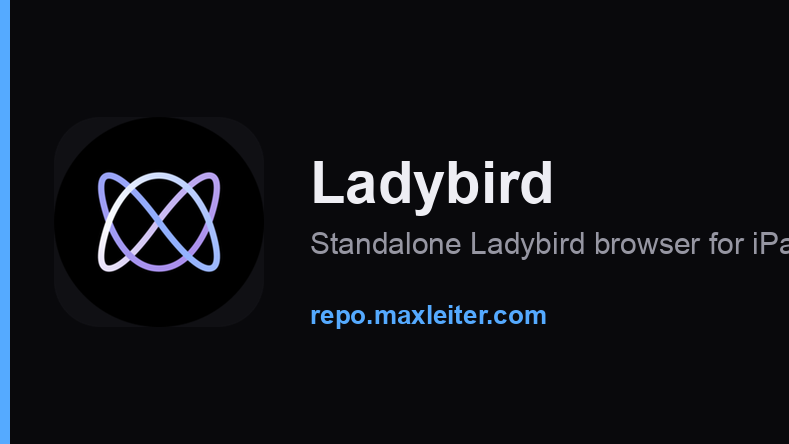
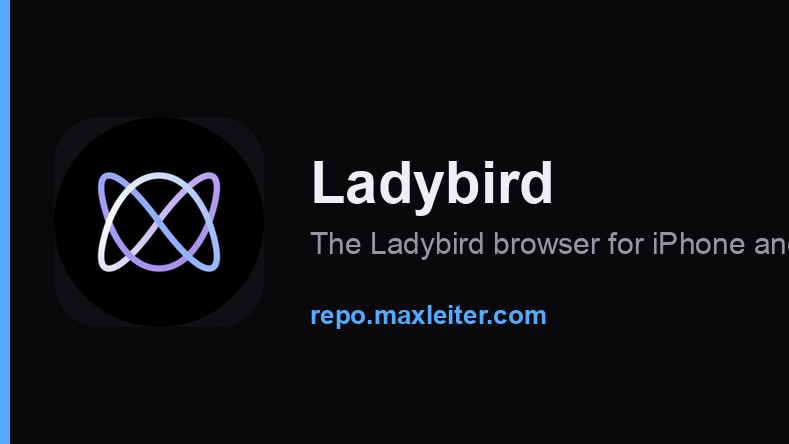
repo: describe Ladybird the way someone browsing the repo would read it
The Ladybird listing was written from the inside out: LibWeb/LibJS, bundled
helper processes, the dylib closure, IOSurface front buffers presented through
Metal, ANGLE/Metal WebGL context creation. None of that answers the only
question a person reading a store page has, which is what this is and whether
it runs on their phone. It now says: the Ladybird browser (linked), ported to
jailbroken iPhones and iPads, installs as a home-screen app, works on root and
rootless. The rootless-only / "rootful is not supported" line was stale and is
gone.

ladybird-wayland gets the same treatment plus a meta file of its own, so its
text is not the deb's build-speak and it says what distinguishes it from
ladybird-app in one line instead of naming iosc, GTK, libadwaita, freedesktop
and UIKit.

make-repo.py renders markdown links and backtick code spans now. Both were
already being written into meta descriptions and Sileo handled them, but the
web depiction printed [Ladybird](https://ladybird.org) and stray backticks
literally, which is why the descriptions avoided links until now. Fixes the
same thing on ~18 other pages that had backticks.

Em-dashes removed from every authored description: three meta files, the
ladybird-app control, and six other controls. libmozjs-115-0 also claimed
interpreter-only was forced because "iOS does not permit runtime-writable
executable memory", which the shipped libmozjs-115-jit-0 disproves; it now
[…]

Changed region(s): [[0.3954, 0.527, 1.0, 0.5856]]

diff --git a/repo/depictions/ladybird-app.html b/repo/depictions/ladybird-app.html
@@ -16,17 +16,11 @@
 <body><div class="wrap">
   <a class="back" href="../index.html"><svg viewBox="0 0 16 16" fill="none" aria-hidden="true"><path d="M10 12L6 8l4-4" stroke="currentColor" stroke-width="1.6" stroke-linecap="round" stroke-linejoin="round"/></svg><span>Max&#x27;s Repo</span></a>
   <header class="masthead"><img src="../icons/ladybird-app.png" alt="">
-    <div><h1>Ladybird</h1><p class="sub">Standalone Ladybird browser for iPad and iPhone</p></div><div class="theme-picker" role="group" aria-label="Theme"><button type="button" data-theme="system" aria-label="Follow system theme" aria-pressed="true"><svg viewBox="0 0 24 24" fill="none" stroke="currentColor" stroke-width="2" stroke-linecap="round" stroke-linejoin="round" aria-hidden="true"><rect x="3" y="5" width="18" height="12" rx="1"/><path d="M8 21h8M12 17v4"/></svg></button><button type="button" data-theme="light" aria-label="Light theme" aria-pressed="false"><svg viewBox="0 0 24 24" fill="none" stroke="currentColor" stroke-width="2" stroke-linecap="round" stroke-linejoin="round" aria-hidden="true"><circle cx="12" cy="12" r="4"/><path d="M12 2v2M12 20v2M4.9 4.9l1.4 1.4M17.7 17.7l1.4 1.4M2 12h2M20 12h2M6.3 17.7l-1.4 1.4M19.1 4.9l-1.4 1.4"/></svg></button><button type="button" data-theme="dark" aria-label="Dark theme" aria-pressed="false"><svg viewBox="0 0 24 24" fill="none" stroke="currentColor" stroke-width="2" stroke-linecap="round" stroke-linejoin="round" aria-hidden="true"><path d="M21 12.8A9 9 0 1 1 11.2 3a7 7 0 0 0 9.8 9.8z"/></svg></button></div></header>
-  <div class="prose"><p><strong>Ladybird</strong> is a standalone browser app for jailbroken iOS, built from Ladybird&#x27;s LibWeb and LibJS engine rather than WebKit.</p>
-<p>Tap the home-screen icon and it launches directly as a UIKit app. It bundles the browser executable, helper processes, resources, fonts, and dylib closure inside `Ladybird.app`, so it does not need an Xios desktop session.</p>
-<ul>
-<li>Multiprocess Ladybird engine with bundled helpers</li>
-<li>Address bar, back/forward/reload, page taps, software keyboard input, and focused text fields</li>
-<li>IOSurface-backed front-buffer presentation through Metal</li>
-<li>ANGLE/Metal WebGL context creation verified on-device</li>
-</ul>
-<p><strong>Requires iOS/iPadOS 16.0+ on a rootless jailbreak</strong> (`/var/jb`). Rootful is not supported.</p>
-<p><strong>iPad is the tested configuration.</strong> As of 0.1.23 the app also installs on iPhone, but no iPhone has been tested: expect a cramped toolbar, and note that the software keyboard can cover the lower half of a page because the view does not yet inset for it. Bug reports from iPhone are welcome.</p></div>
+    <div><h1>Ladybird</h1><p class="sub">The Ladybird browser for iPhone and iPad</p></div><div class="theme-picker" role="group" aria-label="Theme"><button type="button" data-theme="system" aria-label="Follow system theme" aria-pressed="true"><svg viewBox="0 0 24 24" fill="none" stroke="currentColor" stroke-width="2" stroke-linecap="round" stroke-linejoin="round" aria-hidden="true"><rect x="3" y="5" width="18" height="12" rx="1"/><path d="M8 21h8M12 17v4"/></svg></button><button type="button" data-theme="light" aria-label="Light theme" aria-pressed="false"><svg viewBox="0 0 24 24" fill="none" stroke="currentColor" stroke-width="2" stroke-linecap="round" stroke-linejoin="round" aria-hidden="true"><circle cx="12" cy="12" r="4"/><path d="M12 2v2M12 20v2M4.9 4.9l1.4 1.4M17.7 17.7l1.4 1.4M2 12h2M20 12h2M6.3 17.7l-1.4 1.4M19.1 4.9l-1.4 1.4"/></svg></button><button type="button" data-theme="dark" aria-label="Dark theme" aria-pressed="false"><svg viewBox="0 0 24 24" fill="none" stroke="currentColor" stroke-width="2" stroke-linecap="round" stroke-linejoin="round" aria-hidden="true"><path d="M21 12.8A9 9 0 1 1 11.2 3a7 7 0 0 0 9.8 9.8z"/></svg></button></div></header>
+  <div class="prose"><p><a href="https://ladybird.org" rel="noopener">Ladybird</a> is a new web browser with its own engine, written from scratch rather than built on WebKit or Chromium. This is Ladybird ported to jailbroken iPhones and iPads.</p>
+<p>It installs as a normal home-screen app. Tap the icon and the browser opens.</p>
+<p>Works on both root and rootless jailbreaks, iOS 16 or later.</p>
+<p>iPad is the tested setup. The app installs and runs on iPhone too, but I have not tested it there: the toolbar is tight, and the keyboard can cover the bottom of the page. Bug reports from iPhone are welcome.</p></div>
   <h2 class="section">Information</h2><table class="info"><tr><td>Version</td><td>0.1.24+ios1</td></tr><tr><td>Size</td><td>68264.2 KiB</td></tr><tr><td>Developer</td><td>Ladybird Browser Initiative / Max</td></tr><tr><td>Section</td><td>Apps</td></tr><tr><td>Identifier</td><td>ladybird-app</td></tr></table>
   <footer><a href="../index.html">&larr; All packages</a></footer>
 </div>

diff --git a/repo/depictions/ladybird-wayland.html b/repo/depictions/ladybird-wayland.html
@@ -16,9 +16,11 @@
 <body><div class="wrap">
   <a class="back" href="../index.html"><svg viewBox="0 0 16 16" fill="none" aria-hidden="true"><path d="M10 12L6 8l4-4" stroke="currentColor" stroke-width="1.6" stroke-linecap="round" stroke-linejoin="round"/></svg><span>Max&#x27;s Repo</span></a>
   <header class="masthead"><img src="../icons/ladybird-wayland.png" alt="">
-    <div><h1>Ladybird (Wayland)</h1><p class="sub">Ladybird web browser for Xios Wayland sessions</p></div><div class="theme-picker" role="group" aria-label="Theme"><button type="button" data-theme="system" aria-label="Follow system theme" aria-pressed="true"><svg viewBox="0 0 24 24" fill="none" stroke="currentColor" stroke-width="2" stroke-linecap="round" stroke-linejoin="round" aria-hidden="true"><rect x="3" y="5" width="18" height="12" rx="1"/><path d="M8 21h8M12 17v4"/></svg></button><button type="button" data-theme="light" aria-label="Light theme" aria-pressed="false"><svg viewBox="0 0 24 24" fill="none" stroke="currentColor" stroke-width="2" stroke-linecap="round" stroke-linejoin="round" aria-hidden="true"><circle cx="12" cy="12" r="4"/><path d="M12 2v2M12 20v2M4.9 4.9l1.4 1.4M17.7 17.7l1.4 1.4M2 12h2M20 12h2M6.3 17.7l-1.4 1.4M19.1 4.9l-1.4 1.4"/></svg></button><button type="button" data-theme="dark" aria-label="Dark theme" aria-pressed="false"><svg viewBox="0 0 24 24" fill="none" stroke="currentColor" stroke-width="2" stroke-linecap="round" stroke-linejoin="round" aria-hidden="true"><path d="M21 12.8A9 9 0 1 1 11.2 3a7 7 0 0 0 9.8 9.8z"/></svg></button></div></header>
-  <div class="prose"><p>Ladybird web browser for Xios Wayland sessions</p></div>
-  <h2 class="section">Information</h2><table class="info"><tr><td>Version</td><td>0.1.0+wl2</td></tr><tr><td>Size</td><td>29458.8 KiB</td></tr><tr><td>Developer</td><td>Max Leiter &lt;maxwell.leiter@gmail.com&gt;</td></tr><tr><td>Section</td><td>Apps</td></tr><tr><td>Identifier</td><td>ladybird-wayland</td></tr></table>
+    <div><h1>Ladybird (Wayland)</h1><p class="sub">The Ladybird browser for Xios desktop sessions</p></div><div class="theme-picker" role="group" aria-label="Theme"><button type="button" data-theme="system" aria-label="Follow system theme" aria-pressed="true"><svg viewBox="0 0 24 24" fill="none" stroke="currentColor" stroke-width="2" stroke-linecap="round" stroke-linejoin="round" aria-hidden="true"><rect x="3" y="5" width="18" height="12" rx="1"/><path d="M8 21h8M12 17v4"/></svg></button><button type="button" data-theme="light" aria-label="Light theme" aria-pressed="false"><svg viewBox="0 0 24 24" fill="none" stroke="currentColor" stroke-width="2" stroke-linecap="round" stroke-linejoin="round" aria-hidden="true"><circle cx="12" cy="12" r="4"/><path d="M12 2v2M12 20v2M4.9 4.9l1.4 1.4M17.7 17.7l1.4 1.4M2 12h2M20 12h2M6.3 17.7l-1.4 1.4M19.1 4.9l-1.4 1.4"/></svg></button><button type="button" data-theme="dark" aria-label="Dark theme" aria-pressed="false"><svg viewBox="0 0 24 24" fill="none" stroke="currentColor" stroke-width="2" stroke-linecap="round" stroke-linejoin="round" aria-hidden="true"><path d="M21 12.8A9 9 0 1 1 11.2 3a7 7 0 0 0 9.8 9.8z"/></svg></button></div></header>
+  <div class="prose"><p><a href="https://ladybird.org" rel="noopener">Ladybird</a> is a new web browser with its own engine, written from scratch rather than built on WebKit or Chromium. This is the desktop build, which runs as a window inside a Xios desktop session.</p>
+<p>It adds a normal application entry and opens through whichever desktop you are running.</p>
+<p>If you want a home-screen browser icon instead, install <strong>Ladybird</strong> (<code>ladybird-app</code>).</p></div>
+  <h2 class="section">Information</h2><table class="info"><tr><td>Version</td><td>0.1.0+wl2</td></tr><tr><td>Size</td><td>29458.8 KiB</td></tr><tr><td>Developer</td><td>Ladybird Browser Initiative / Max</td></tr><tr><td>Section</td><td>Apps</td></tr><tr><td>Identifier</td><td>ladybird-wayland</td></tr></table>
   <footer><a href="../index.html">&larr; All packages</a></footer>
 </div>
 <script>

diff --git a/repo/depictions/xios-server.html b/repo/depictions/xios-server.html
@@ -18,11 +18,11 @@
   <header class="masthead"><img src="../icons/xios-server.png" alt="">
     <div><h1>Xios (IOSurface X server)</h1><p class="sub">The fast native X11 server for the Xios app</p></div><div class="theme-picker" role="group" aria-label="Theme"><button type="button" data-theme="system" aria-label="Follow system theme" aria-pressed="true"><svg viewBox="0 0 24 24" fill="none" stroke="currentColor" stroke-width="2" stroke-linecap="round" stroke-linejoin="round" aria-hidden="true"><rect x="3" y="5" width="18" height="12" rx="1"/><path d="M8 21h8M12 17v4"/></svg></button><button type="button" data-theme="light" aria-label="Light theme" aria-pressed="false"><svg viewBox="0 0 24 24" fill="none" stroke="currentColor" stroke-width="2" stroke-linecap="round" stroke-linejoin="round" aria-hidden="true"><circle cx="12" cy="12" r="4"/><path d="M12 2v2M12 20v2M4.9 4.9l1.4 1.4M17.7 17.7l1.4 1.4M2 12h2M20 12h2M6.3 17.7l-1.4 1.4M19.1 4.9l-1.4 1.4"/></svg></button><button type="button" data-theme="dark" aria-label="Dark theme" aria-pressed="false"><svg viewBox="0 0 24 24" fill="none" stroke="currentColor" stroke-width="2" stroke-linecap="round" stroke-linejoin="round" aria-hidden="true"><path d="M21 12.8A9 9 0 1 1 11.2 3a7 7 0 0 0 9.8 9.8z"/></svg></button></div></header>
   <div class="prose"><p><strong>Xios</strong> is the X11 server behind the Xios iOS app, built for the fastest display path. It&#x27;s xorg-server 1.20.11 (the same source as Xvfb) with a custom backend that draws straight into a GPU-shared image the app shows on screen, with no per-frame copying.</p>
-<p>Xios writes a small config file at `/var/jb/tmp/xios.json` so the app picks this fast path automatically, and touch and keyboard input are passed back into X11. If you need the simpler, more portable version instead, install <strong>x11-xvfb</strong> and use `x11-server.sh`.</p>
+<p>Xios writes a small config file at <code>/var/jb/tmp/xios.json</code> so the app picks this fast path automatically, and touch and keyboard input are passed back into X11. If you need the simpler, more portable version instead, install <strong>x11-xvfb</strong> and use <code>x11-server.sh</code>.</p>
 <ul>
 <li>Starts cleanly and sets up the keyboard correctly</li>
-<li>Includes the `xios-server.sh` launcher at `/var/jb/usr/bin/xios-server.sh`</li>
-<li>Pair with a window manager (`fluxbox`), `xterm`, and the `x11-fonts-sf` package</li>
+<li>Includes the <code>xios-server.sh</code> launcher at <code>/var/jb/usr/bin/xios-server.sh</code></li>
+<li>Pair with a window manager (<code>fluxbox</code>), <code>xterm</code>, and the <code>x11-fonts-sf</code> package</li>
 </ul></div>
   <h2 class="section">Information</h2><table class="info"><tr><td>Version</td><td>1.20.11+ios3</td></tr><tr><td>Size</td><td>639.0 KiB</td></tr><tr><td>Developer</td><td>Max Leiter &lt;maxwell.leiter@gmail.com&gt;</td></tr><tr><td>Section</td><td>X11</td></tr><tr><td>Identifier</td><td>xios-server</td></tr></table>
   <footer><a href="../index.html">&larr; All packages</a></footer>

diff --git a/repo/depictions/gnome-console.html b/repo/depictions/gnome-console.html
@@ -17,14 +17,14 @@
   <a class="back" href="../index.html"><svg viewBox="0 0 16 16" fill="none" aria-hidden="true"><path d="M10 12L6 8l4-4" stroke="currentColor" stroke-width="1.6" stroke-linecap="round" stroke-linejoin="round"/></svg><span>Max&#x27;s Repo</span></a>
   <header class="masthead"><img src="../icons/gnome-console.png" alt="">
     <div><h1>gnome-console</h1><p class="sub">GNOME Console, a clean modern terminal</p></div><div class="theme-picker" role="group" aria-label="Theme"><button type="button" data-theme="system" aria-label="Follow system theme" aria-pressed="true"><svg viewBox="0 0 24 24" fill="none" stroke="currentColor" stroke-width="2" stroke-linecap="round" stroke-linejoin="round" aria-hidden="true"><rect x="3" y="5" width="18" height="12" rx="1"/><path d="M8 21h8M12 17v4"/></svg></button><button type="button" data-theme="light" aria-label="Light theme" aria-pressed="false"><svg viewBox="0 0 24 24" fill="none" stroke="currentColor" stroke-width="2" stroke-linecap="round" stroke-linejoin="round" aria-hidden="true"><circle cx="12" cy="12" r="4"/><path d="M12 2v2M12 20v2M4.9 4.9l1.4 1.4M17.7 17.7l1.4 1.4M2 12h2M20 12h2M6.3 17.7l-1.4 1.4M19.1 4.9l-1.4 1.4"/></svg></button><button type="button" data-theme="dark" aria-label="Dark theme" aria-pressed="false"><svg viewBox="0 0 24 24" fill="none" stroke="currentColor" stroke-width="2" stroke-linecap="round" stroke-linejoin="round" aria-hidden="true"><path d="M21 12.8A9 9 0 1 1 11.2 3a7 7 0 0 0 9.8 9.8z"/></svg></button></div></header>
-  <div class="prose"><p><strong>GNOME Console</strong> (`kgx`) is a simple modern terminal for the Xios desktop, built on GTK4, libadwaita, and VTE.</p>
-<p>It renders into the Xios display server and uses San Francisco by default when the `x11-fonts-sf` package is installed.</p>
+  <div class="prose"><p><strong>GNOME Console</strong> (<code>kgx</code>) is a simple modern terminal for the Xios desktop, built on GTK4, libadwaita, and VTE.</p>
+<p>It renders into the Xios display server and uses San Francisco by default when the <code>x11-fonts-sf</code> package is installed.</p>
 <ul>
 <li>VTE terminal widget with truecolor, themes, and tabs</li>
 <li>GTK4/libadwaita interface that adapts to light and dark</li>
 <li>Works well as the default terminal for GNOME sessions</li>
 </ul>
-<p>Open it from an X session started by `x11-server.sh` or `xios-server.sh`.</p></div>
+<p>Open it from an X session started by <code>x11-server.sh</code> or <code>xios-server.sh</code>.</p></div>
   <h2 class="section">Information</h2><table class="info"><tr><td>Version</td><td>46.0+ios1</td></tr><tr><td>Size</td><td>184.2 KiB</td></tr><tr><td>Developer</td><td>The GNOME Project</td></tr><tr><td>Section</td><td>X11/Wayland Apps</td></tr><tr><td>Identifier</td><td>gnome-console</td></tr></table>
   <footer><a href="../index.html">&larr; All packages</a></footer>
 </div>

diff --git a/repo/depictions/tigervnc-standalone-server.html b/repo/depictions/tigervnc-standalone-server.html
@@ -18,11 +18,11 @@
   <header class="masthead"><img src="../icons/tigervnc-standalone-server.png" alt="">
     <div><h1>tigervnc-standalone-server</h1><p class="sub">Run an X11 desktop over VNC on rootless jailbreaks</p></div><div class="theme-picker" role="group" aria-label="Theme"><button type="button" data-theme="system" aria-label="Follow system theme" aria-pressed="true"><svg viewBox="0 0 24 24" fill="none" stroke="currentColor" stroke-width="2" stroke-linecap="round" stroke-linejoin="round" aria-hidden="true"><rect x="3" y="5" width="18" height="12" rx="1"/><path d="M8 21h8M12 17v4"/></svg></button><button type="button" data-theme="light" aria-label="Light theme" aria-pressed="false"><svg viewBox="0 0 24 24" fill="none" stroke="currentColor" stroke-width="2" stroke-linecap="round" stroke-linejoin="round" aria-hidden="true"><circle cx="12" cy="12" r="4"/><path d="M12 2v2M12 20v2M4.9 4.9l1.4 1.4M17.7 17.7l1.4 1.4M2 12h2M20 12h2M6.3 17.7l-1.4 1.4M19.1 4.9l-1.4 1.4"/></svg></button><button type="button" data-theme="dark" aria-label="Dark theme" aria-pressed="false"><svg viewBox="0 0 24 24" fill="none" stroke="currentColor" stroke-width="2" stroke-linecap="round" stroke-linejoin="round" aria-hidden="true"><path d="M21 12.8A9 9 0 1 1 11.2 3a7 7 0 0 0 9.8 9.8z"/></svg></button></div></header>
   <div class="prose"><p><strong>Xvnc</strong> is a virtual X11 display server with built-in VNC, useful for headless desktops and remote display sessions.</p>
-<p>This package includes the iOS compatibility patch needed for clean startup and drops the unavailable `tigervnc-xorg-extension` dependency.</p>
+<p>This package includes the iOS compatibility patch needed for clean startup and drops the unavailable <code>tigervnc-xorg-extension</code> dependency.</p>
 <ul>
-<li>Gives you an X11 desktop you can reach from any VNC client at `127.0.0.1`</li>
+<li>Gives you an X11 desktop you can reach from any VNC client at <code>127.0.0.1</code></li>
 <li>Installs the standalone server alongside the shared TigerVNC tools</li>
-<li>Works well with a window manager (`fluxbox`), `xterm`, and fonts</li>
+<li>Works well with a window manager (<code>fluxbox</code>), <code>xterm</code>, and fonts</li>
 </ul></div>
   <h2 class="section">Information</h2><table class="info"><tr><td>Version</td><td>1.11.0+rootless1</td></tr><tr><td>Size</td><td>817.4 KiB</td></tr><tr><td>Developer</td><td>Max Leiter &lt;maxwell.leiter@gmail.com&gt;</td></tr><tr><td>Section</td><td>X11</td></tr><tr><td>Identifier</td><td>tigervnc-standalone-server</td></tr></table>
   <footer><a href="../index.html">&larr; All packages</a></footer>

diff --git a/repo/depictions/libmozjs-115-0.html b/repo/depictions/libmozjs-115-0.html
@@ -18,10 +18,11 @@
   <header class="masthead"><img src="../icons/libmozjs-115-0.png" alt="">
     <div><h1>libmozjs-115-0</h1><p class="sub">SpiderMonkey JavaScript engine (mozjs 115)</p></div><div class="theme-picker" role="group" aria-label="Theme"><button type="button" data-theme="system" aria-label="Follow system theme" aria-pressed="true"><svg viewBox="0 0 24 24" fill="none" stroke="currentColor" stroke-width="2" stroke-linecap="round" stroke-linejoin="round" aria-hidden="true"><rect x="3" y="5" width="18" height="12" rx="1"/><path d="M8 21h8M12 17v4"/></svg></button><button type="button" data-theme="light" aria-label="Light theme" aria-pressed="false"><svg viewBox="0 0 24 24" fill="none" stroke="currentColor" stroke-width="2" stroke-linecap="round" stroke-linejoin="round" aria-hidden="true"><circle cx="12" cy="12" r="4"/><path d="M12 2v2M12 20v2M4.9 4.9l1.4 1.4M17.7 17.7l1.4 1.4M2 12h2M20 12h2M6.3 17.7l-1.4 1.4M19.1 4.9l-1.4 1.4"/></svg></button><button type="button" data-theme="dark" aria-label="Dark theme" aria-pressed="false"><svg viewBox="0 0 24 24" fill="none" stroke="currentColor" stroke-width="2" stroke-linecap="round" stroke-linejoin="round" aria-hidden="true"><path d="M21 12.8A9 9 0 1 1 11.2 3a7 7 0 0 0 9.8 9.8z"/></svg></button></div></header>
   <div class="prose"><p><strong>SpiderMonkey</strong> (mozjs 115 ESR) is Mozilla&#x27;s JavaScript engine for the GNOME stack. <strong>gjs</strong> and GNOME Shell build on it, so it is the foundation for GNOME&#x27;s JavaScript applications.</p>
-<p>This package uses an interpreter-only build because iOS does not permit runtime-writable executable memory.</p>
+<p>This package is the interpreter-only build, which runs anywhere. There is also a JIT build, which is much faster but needs the dynamic-codesigning entitlement on whatever embeds it.</p>
 <ul>
-<li>`libmozjs-115-0`: the runtime engine</li>
-<li>`libmozjs-115-dev`: headers + static library, for building gjs and other embedders</li>
+<li><code>libmozjs-115-0</code>: the runtime engine</li>
+<li><code>libmozjs-115-dev</code>: headers and static library, for building gjs and other embedders</li>
+<li><code>libmozjs-115-jit-0</code>: the JIT build, a drop-in replacement for the runtime engine</li>
 </ul>
 <p>A build and runtime dependency for the GNOME JavaScript stack.</p></div>
   <h2 class="section">Information</h2><table class="info"><tr><td>Version</td><td>115.12.0+ios1</td></tr><tr><td>Size</td><td>10084.1 KiB</td></tr><tr><td>Developer</td><td>Mozilla</td></tr><tr><td>Section</td><td>Libraries</td></tr><tr><td>Identifier</td><td>libmozjs-115-0</td></tr></table>

diff --git a/repo/depictions/tigervnc-common.html b/repo/depictions/tigervnc-common.html
@@ -17,7 +17,7 @@
   <a class="back" href="../index.html"><svg viewBox="0 0 16 16" fill="none" aria-hidden="true"><path d="M10 12L6 8l4-4" stroke="currentColor" stroke-width="1.6" stroke-linecap="round" stroke-linejoin="round"/></svg><span>Max&#x27;s Repo</span></a>
   <header class="masthead"><img src="../icons/tigervnc-common.png" alt="">
     <div><h1>tigervnc-common</h1><p class="sub">Shared files for TigerVNC (Xvnc) on rootless</p></div><div class="theme-picker" role="group" aria-label="Theme"><button type="button" data-theme="system" aria-label="Follow system theme" aria-pressed="true"><svg viewBox="0 0 24 24" fill="none" stroke="currentColor" stroke-width="2" stroke-linecap="round" stroke-linejoin="round" aria-hidden="true"><rect x="3" y="5" width="18" height="12" rx="1"/><path d="M8 21h8M12 17v4"/></svg></button><button type="button" data-theme="light" aria-label="Light theme" aria-pressed="false"><svg viewBox="0 0 24 24" fill="none" stroke="currentColor" stroke-width="2" stroke-linecap="round" stroke-linejoin="round" aria-hidden="true"><circle cx="12" cy="12" r="4"/><path d="M12 2v2M12 20v2M4.9 4.9l1.4 1.4M17.7 17.7l1.4 1.4M2 12h2M20 12h2M6.3 17.7l-1.4 1.4M19.1 4.9l-1.4 1.4"/></svg></button><button type="button" data-theme="dark" aria-label="Dark theme" aria-pressed="false"><svg viewBox="0 0 24 24" fill="none" stroke="currentColor" stroke-width="2" stroke-linecap="round" stroke-linejoin="round" aria-hidden="true"><path d="M21 12.8A9 9 0 1 1 11.2 3a7 7 0 0 0 9.8 9.8z"/></svg></button></div></header>
-  <div class="prose"><p>Common files (`vncconfig`, `vncpasswd`, config) shared by the TigerVNC server packages. Installed automatically as a dependency of <strong>tigervnc-standalone-server</strong>.</p></div>
+  <div class="prose"><p>Common files (<code>vncconfig</code>, <code>vncpasswd</code>, config) shared by the TigerVNC server packages. Installed automatically as a dependency of <strong>tigervnc-standalone-server</strong>.</p></div>
   <h2 class="section">Information</h2><table class="info"><tr><td>Version</td><td>1.11.0+rootless1</td></tr><tr><td>Size</td><td>55.7 KiB</td></tr><tr><td>Developer</td><td>Max Leiter &lt;maxwell.leiter@gmail.com&gt;</td></tr><tr><td>Section</td><td>X11</td></tr><tr><td>Identifier</td><td>tigervnc-common</td></tr></table>
   <footer><a href="../index.html">&larr; All packages</a></footer>
 </div>

diff --git a/repo/depictions/wl-clipboard.html b/repo/depictions/wl-clipboard.html
@@ -18,10 +18,10 @@
   <header class="masthead"><img src="../icons/wl-clipboard.png" alt="">
     <div><h1>wl-clipboard</h1><p class="sub">wl-clipboard, command-line copy and paste for Wayland</p></div><div class="theme-picker" role="group" aria-label="Theme"><button type="button" data-theme="system" aria-label="Follow system theme" aria-pressed="true"><svg viewBox="0 0 24 24" fill="none" stroke="currentColor" stroke-width="2" stroke-linecap="round" stroke-linejoin="round" aria-hidden="true"><rect x="3" y="5" width="18" height="12" rx="1"/><path d="M8 21h8M12 17v4"/></svg></button><button type="button" data-theme="light" aria-label="Light theme" aria-pressed="false"><svg viewBox="0 0 24 24" fill="none" stroke="currentColor" stroke-width="2" stroke-linecap="round" stroke-linejoin="round" aria-hidden="true"><circle cx="12" cy="12" r="4"/><path d="M12 2v2M12 20v2M4.9 4.9l1.4 1.4M17.7 17.7l1.4 1.4M2 12h2M20 12h2M6.3 17.7l-1.4 1.4M19.1 4.9l-1.4 1.4"/></svg></button><button type="button" data-theme="dark" aria-label="Dark theme" aria-pressed="false"><svg viewBox="0 0 24 24" fill="none" stroke="currentColor" stroke-width="2" stroke-linecap="round" stroke-linejoin="round" aria-hidden="true"><path d="M21 12.8A9 9 0 1 1 11.2 3a7 7 0 0 0 9.8 9.8z"/></svg></button></div></header>
   <div class="prose"><p><strong>wl-clipboard</strong> provides command-line copy and paste for the iosc Wayland compositor.</p>
-<p>It ships two small tools, `wl-copy` and `wl-paste`, that read and write the compositor clipboard so you can move text and data between terminal programs and graphical apps.</p>
+<p>It ships two small tools, <code>wl-copy</code> and <code>wl-paste</code>, that read and write the compositor clipboard so you can move text and data between terminal programs and graphical apps.</p>
 <ul>
-<li>`wl-copy` sends standard input to the clipboard</li>
-<li>`wl-paste` writes the clipboard to standard output</li>
+<li><code>wl-copy</code> sends standard input to the clipboard</li>
+<li><code>wl-paste</code> writes the clipboard to standard output</li>
 <li>Works with any format the compositor advertises</li>
 <li>Native Wayland, no X11 required</li>
 </ul>

diff --git a/repo/depictions/com.max.kioskmode-app.html b/repo/depictions/com.max.kioskmode-app.html
@@ -18,7 +18,7 @@
   <header class="masthead"><img src="../icons/com.max.kioskmode-app.png" alt="">
     <div><h1>Kiosk Mode</h1><p class="sub">Lock the iPad to a single app</p></div><div class="theme-picker" role="group" aria-label="Theme"><button type="button" data-theme="system" aria-label="Follow system theme" aria-pressed="true"><svg viewBox="0 0 24 24" fill="none" stroke="currentColor" stroke-width="2" stroke-linecap="round" stroke-linejoin="round" aria-hidden="true"><rect x="3" y="5" width="18" height="12" rx="1"/><path d="M8 21h8M12 17v4"/></svg></button><button type="button" data-theme="light" aria-label="Light theme" aria-pressed="false"><svg viewBox="0 0 24 24" fill="none" stroke="currentColor" stroke-width="2" stroke-linecap="round" stroke-linejoin="round" aria-hidden="true"><circle cx="12" cy="12" r="4"/><path d="M12 2v2M12 20v2M4.9 4.9l1.4 1.4M17.7 17.7l1.4 1.4M2 12h2M20 12h2M6.3 17.7l-1.4 1.4M19.1 4.9l-1.4 1.4"/></svg></button><button type="button" data-theme="dark" aria-label="Dark theme" aria-pressed="false"><svg viewBox="0 0 24 24" fill="none" stroke="currentColor" stroke-width="2" stroke-linecap="round" stroke-linejoin="round" aria-hidden="true"><path d="M21 12.8A9 9 0 1 1 11.2 3a7 7 0 0 0 9.8 9.8z"/></svg></button></div></header>
   <div class="prose"><p><strong>Kiosk Mode</strong> locks your iPad (or iPhone) to a single app and relaunches it automatically, turning a device into a single-purpose kiosk.</p>
-<p>This is the setup app: pick the target app and manage the kiosk settings from a simple onboarding flow. The lock and auto-relaunch behavior lives in the companion SpringBoard tweak (<strong>KioskMode</strong>, package `com.max.kioskmode`); install both for the full feature.</p>
+<p>This is the setup app: pick the target app and manage the kiosk settings from a simple onboarding flow. The lock and auto-relaunch behavior lives in the companion SpringBoard tweak (<strong>KioskMode</strong>, package <code>com.max.kioskmode</code>); install both for the full feature.</p>
 <ul>
 <li>Choose any installed app to lock to</li>
 <li>Auto-relaunch if the app is closed</li>

diff --git a/repo/depictions/gnome-text-editor.html b/repo/depictions/gnome-text-editor.html
@@ -18,7 +18,7 @@
   <header class="masthead"><img src="../icons/gnome-text-editor.png" alt="">
     <div><h1>gnome-text-editor</h1><p class="sub">GNOME Text Editor, simple and modern</p></div><div class="theme-picker" role="group" aria-label="Theme"><button type="button" data-theme="system" aria-label="Follow system theme" aria-pressed="true"><svg viewBox="0 0 24 24" fill="none" stroke="currentColor" stroke-width="2" stroke-linecap="round" stroke-linejoin="round" aria-hidden="true"><rect x="3" y="5" width="18" height="12" rx="1"/><path d="M8 21h8M12 17v4"/></svg></button><button type="button" data-theme="light" aria-label="Light theme" aria-pressed="false"><svg viewBox="0 0 24 24" fill="none" stroke="currentColor" stroke-width="2" stroke-linecap="round" stroke-linejoin="round" aria-hidden="true"><circle cx="12" cy="12" r="4"/><path d="M12 2v2M12 20v2M4.9 4.9l1.4 1.4M17.7 17.7l1.4 1.4M2 12h2M20 12h2M6.3 17.7l-1.4 1.4M19.1 4.9l-1.4 1.4"/></svg></button><button type="button" data-theme="dark" aria-label="Dark theme" aria-pressed="false"><svg viewBox="0 0 24 24" fill="none" stroke="currentColor" stroke-width="2" stroke-linecap="round" stroke-linejoin="round" aria-hidden="true"><path d="M21 12.8A9 9 0 1 1 11.2 3a7 7 0 0 0 9.8 9.8z"/></svg></button></div></header>
   <div class="prose"><p><strong>GNOME Text Editor</strong> is the default GNOME editor for Xios: clean, fast, built on GTK4/libadwaita, and backed by GtkSourceView syntax highlighting.</p>
-<p>It renders into the Xios display server and uses San Francisco by default when the `x11-fonts-sf` package is installed.</p>
+<p>It renders into the Xios display server and uses San Francisco by default when the <code>x11-fonts-sf</code> package is installed.</p>
 <ul>
 <li>Syntax highlighting for common languages (GtkSourceView 5)</li>
 <li>Session restore, split view, and dark mode</li>

diff --git a/repo/depictions/slurp.html b/repo/depictions/slurp.html
@@ -18,7 +18,7 @@
   <header class="masthead"><img src="../icons/slurp.png" alt="">
     <div><h1>slurp</h1><p class="sub">slurp, select a region on Wayland</p></div><div class="theme-picker" role="group" aria-label="Theme"><button type="button" data-theme="system" aria-label="Follow system theme" aria-pressed="true"><svg viewBox="0 0 24 24" fill="none" stroke="currentColor" stroke-width="2" stroke-linecap="round" stroke-linejoin="round" aria-hidden="true"><rect x="3" y="5" width="18" height="12" rx="1"/><path d="M8 21h8M12 17v4"/></svg></button><button type="button" data-theme="light" aria-label="Light theme" aria-pressed="false"><svg viewBox="0 0 24 24" fill="none" stroke="currentColor" stroke-width="2" stroke-linecap="round" stroke-linejoin="round" aria-hidden="true"><circle cx="12" cy="12" r="4"/><path d="M12 2v2M12 20v2M4.9 4.9l1.4 1.4M17.7 17.7l1.4 1.4M2 12h2M20 12h2M6.3 17.7l-1.4 1.4M19.1 4.9l-1.4 1.4"/></svg></button><button type="button" data-theme="dark" aria-label="Dark theme" aria-pressed="false"><svg viewBox="0 0 24 24" fill="none" stroke="currentColor" stroke-width="2" stroke-linecap="round" stroke-linejoin="round" aria-hidden="true"><path d="M21 12.8A9 9 0 1 1 11.2 3a7 7 0 0 0 9.8 9.8z"/></svg></button></div></header>
   <div class="prose"><p><strong>slurp</strong> lets you select a region on the iosc Wayland compositor.</p>
-<p>slurp draws a selection box over the screen, then prints the region you choose. It is the companion to `grim` for taking a screenshot of exactly the area you want.</p>
+<p>slurp draws a selection box over the screen, then prints the region you choose. It is the companion to <code>grim</code> for taking a screenshot of exactly the area you want.</p>
 <ul>
 <li>Interactive region selection overlay</li>
 <li>Prints the chosen geometry for other tools</li>

diff --git a/repo/depictions/gnome-font-viewer.html b/repo/depictions/gnome-font-viewer.html
@@ -18,7 +18,7 @@
   <header class="masthead"><img src="../icons/gnome-font-viewer.png" alt="">
     <div><h1>gnome-font-viewer</h1><p class="sub">Preview and inspect fonts</p></div><div class="theme-picker" role="group" aria-label="Theme"><button type="button" data-theme="system" aria-label="Follow system theme" aria-pressed="true"><svg viewBox="0 0 24 24" fill="none" stroke="currentColor" stroke-width="2" stroke-linecap="round" stroke-linejoin="round" aria-hidden="true"><rect x="3" y="5" width="18" height="12" rx="1"/><path d="M8 21h8M12 17v4"/></svg></button><button type="button" data-theme="light" aria-label="Light theme" aria-pressed="false"><svg viewBox="0 0 24 24" fill="none" stroke="currentColor" stroke-width="2" stroke-linecap="round" stroke-linejoin="round" aria-hidden="true"><circle cx="12" cy="12" r="4"/><path d="M12 2v2M12 20v2M4.9 4.9l1.4 1.4M17.7 17.7l1.4 1.4M2 12h2M20 12h2M6.3 17.7l-1.4 1.4M19.1 4.9l-1.4 1.4"/></svg></button><button type="button" data-theme="dark" aria-label="Dark theme" aria-pressed="false"><svg viewBox="0 0 24 24" fill="none" stroke="currentColor" stroke-width="2" stroke-linecap="round" stroke-linejoin="round" aria-hidden="true"><path d="M21 12.8A9 9 0 1 1 11.2 3a7 7 0 0 0 9.8 9.8z"/></svg></button></div></header>
   <div class="prose"><p><strong>GNOME Fonts</strong> (font-viewer) lets you browse the fonts available to Xios apps and preview each face at any size.</p>
-<p>It pairs naturally with the `x11-fonts-sf` package, which exposes the iOS system fonts (San Francisco, SF Mono, emoji, CJK) to X11.</p>
+<p>It pairs naturally with the <code>x11-fonts-sf</code> package, which exposes the iOS system fonts (San Francisco, SF Mono, emoji, CJK) to X11.</p>
 <ul>
 <li>Preview any installed face at custom sizes</li>
 <li>Inspect family, style, and metadata</li>
